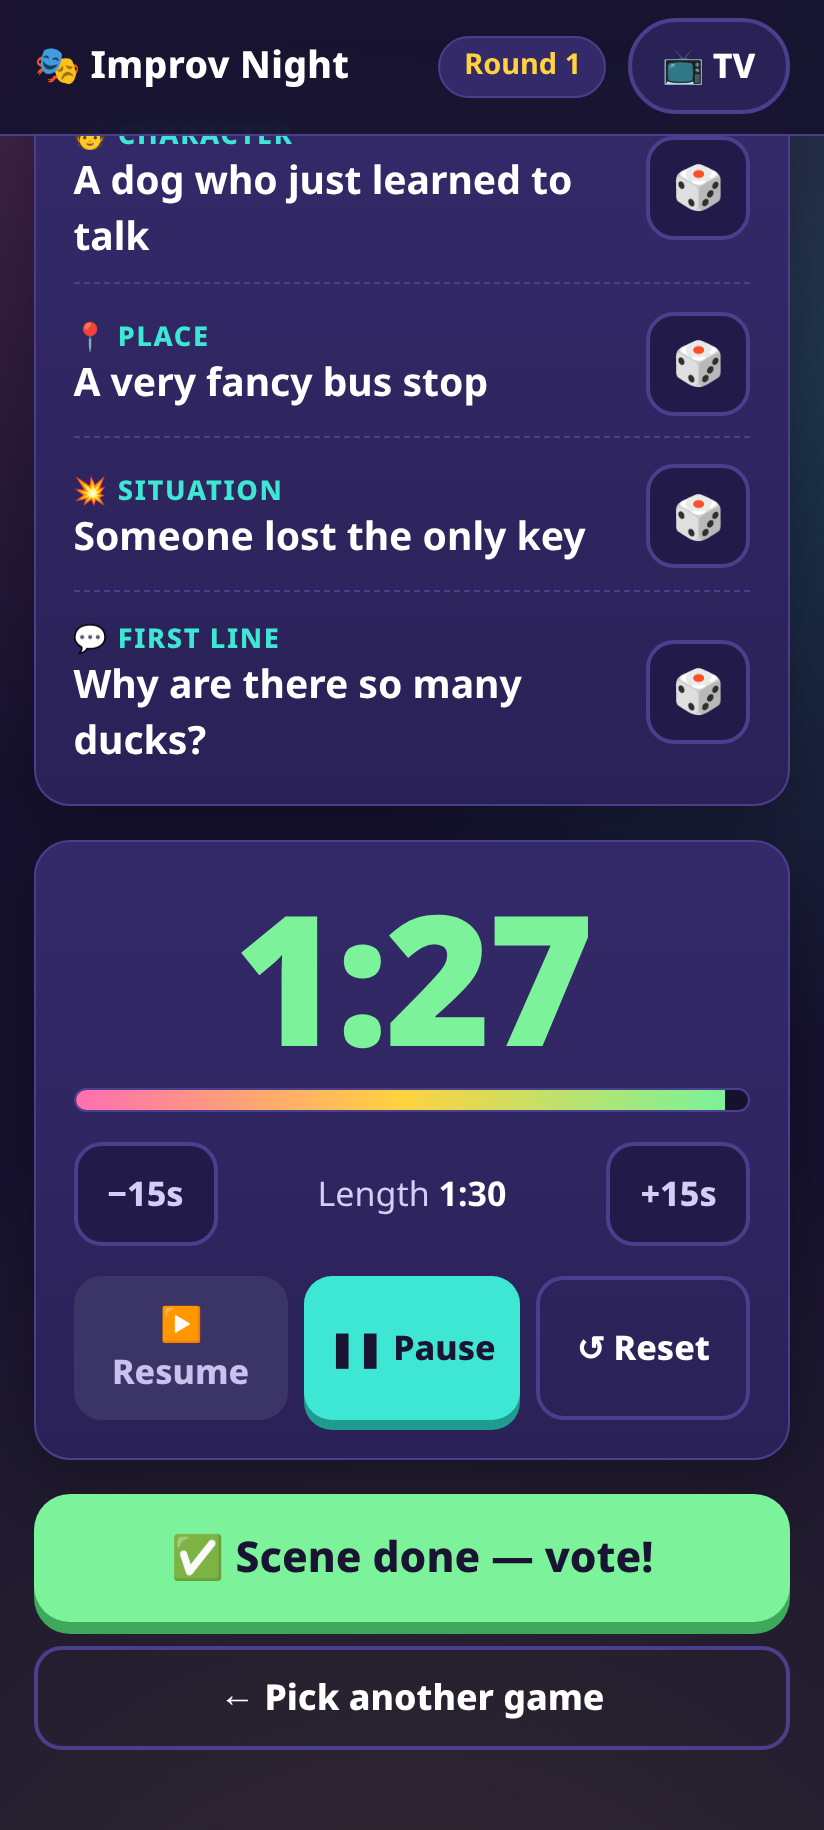
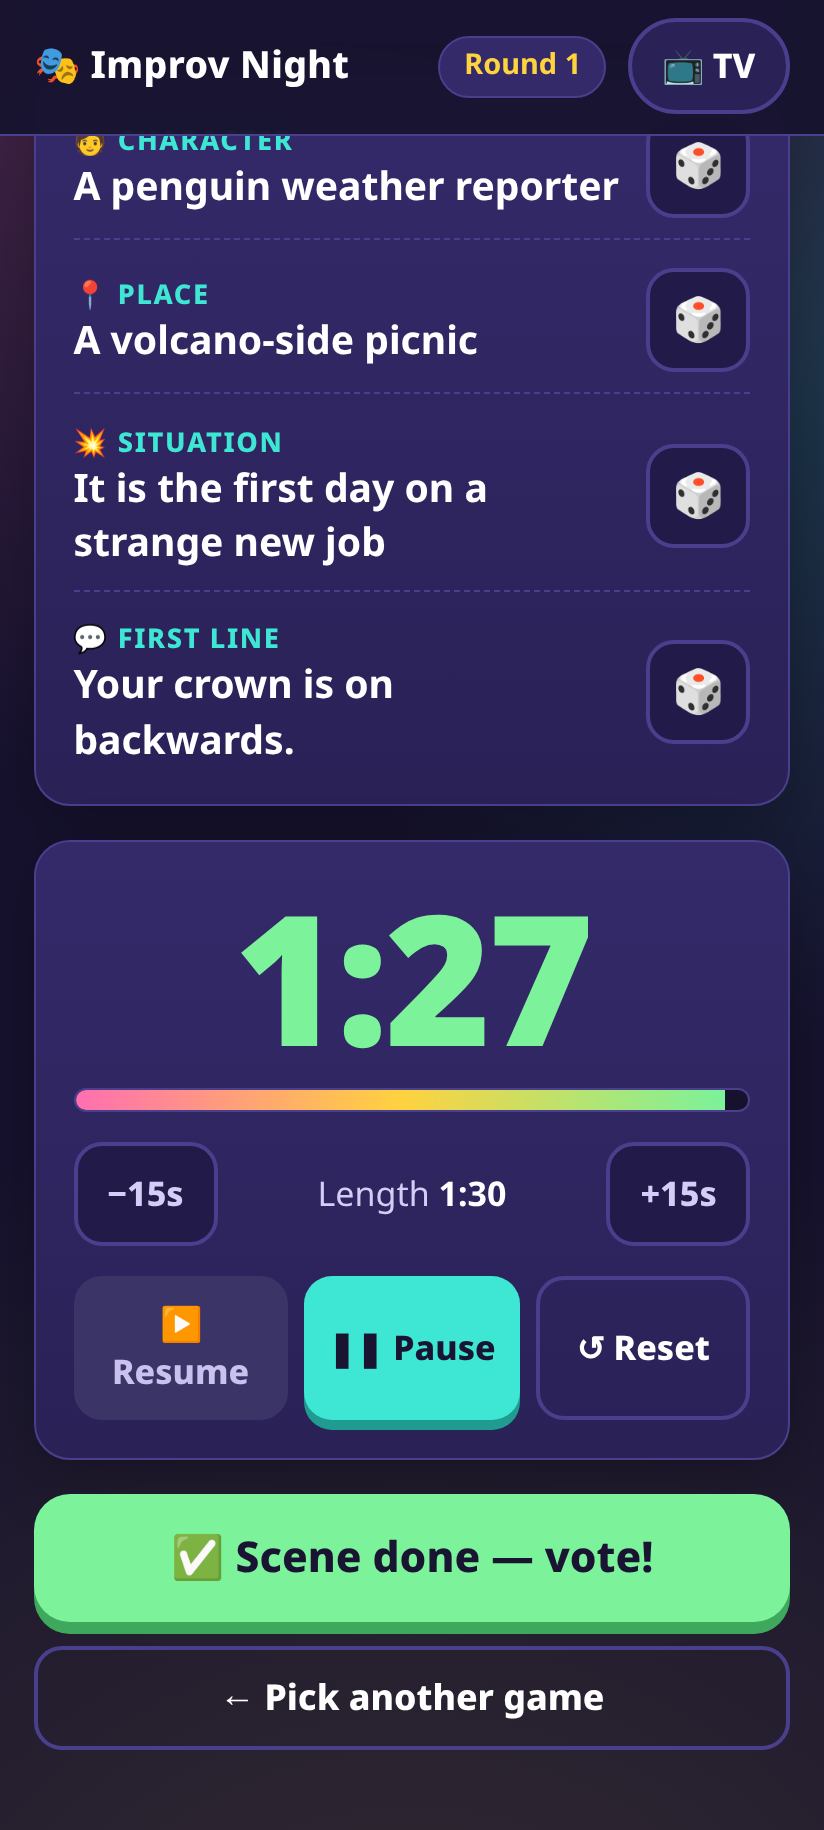
fix: Codex review (keep votes on back-to-scene, keep starter after roster edit, keep keyboard focus, stricter test)

diff --git a/app.js b/app.js
@@ -450,8 +450,20 @@
       case 'results': html = renderResults(); break;
       default: state.screen = 'setup'; html = renderSetup();
     }
+    // Remember the focused control so same-screen re-renders don't lose keyboard focus.
+    var ae = document.activeElement, focusSel = null;
+    if (ae && root.contains(ae) && ae.getAttribute('data-testid') && state.screen === lastScreen) {
+      focusSel = '[data-testid="' + ae.getAttribute('data-testid') + '"]';
+      ['data-index', 'data-player', 'data-mode'].forEach(function (a) {
+        if (ae.hasAttribute(a)) focusSel += '[' + a + '="' + ae.getAttribute(a) + '"]';
+      });
+    }
     root.innerHTML = html;
     root.setAttribute('data-screen', state.screen);
+    if (focusSel) {
+      var nf = root.querySelector(focusSel);
+      if (nf && !nf.disabled) { try { nf.focus({ preventScroll: true }); } catch (e) { nf.focus(); } }
+    }
 
     if (state.screen !== lastScreen) {
       root.classList.remove('enter');
@@ -480,7 +492,7 @@
   function renderSetup() {
     if (!state.draft) {
       state.draft = state.players.length
-        ? state.players.map(function (p) { return { name: p.name, score: p.score }; })
+        ? state.players.map(function (p, i) { return { name: p.name, score: p.score, orig: i }; })
         : [{ name: defaultName(0), score: 0 }, { name: defaultName(1), score: 0 }];
     }
     var d = state.draft;
@@ -771,6 +783,13 @@
       });
       state.draft = null;
       if (!editing) { state.round = 0; state.starter = 0; state.lastRound = null; }
+      else {
+        // Keep the scheduled starter (or the next remaining player) after roster edits.
+        var oldStarter = state.starter, idx = -1;
+        d.forEach(function (p, i) { if (idx < 0 && p.orig === oldStarter) idx = i; });
+        if (idx < 0) d.forEach(function (p, i) { if (idx < 0 && typeof p.orig === 'number' && p.orig > oldStarter) idx = i; });
+        state.starter = idx < 0 ? 0 : idx;
+      }
       state.starter = clamp(state.starter, 0, state.players.length - 1);
       state.lastRound = null;
       state.gameId = null;
@@ -832,7 +851,8 @@
 
     'scene-done': function () {
       stopTimerSilently();
-      initVote();
+      // Keep votes/awards already given this round (e.g. after "Back to scene").
+      if (!state.vote || !Array.isArray(state.vote.awards) || state.vote.awards.length !== state.players.length) initVote();
       go('vote');
     },
     'back-to-picker': function () {
